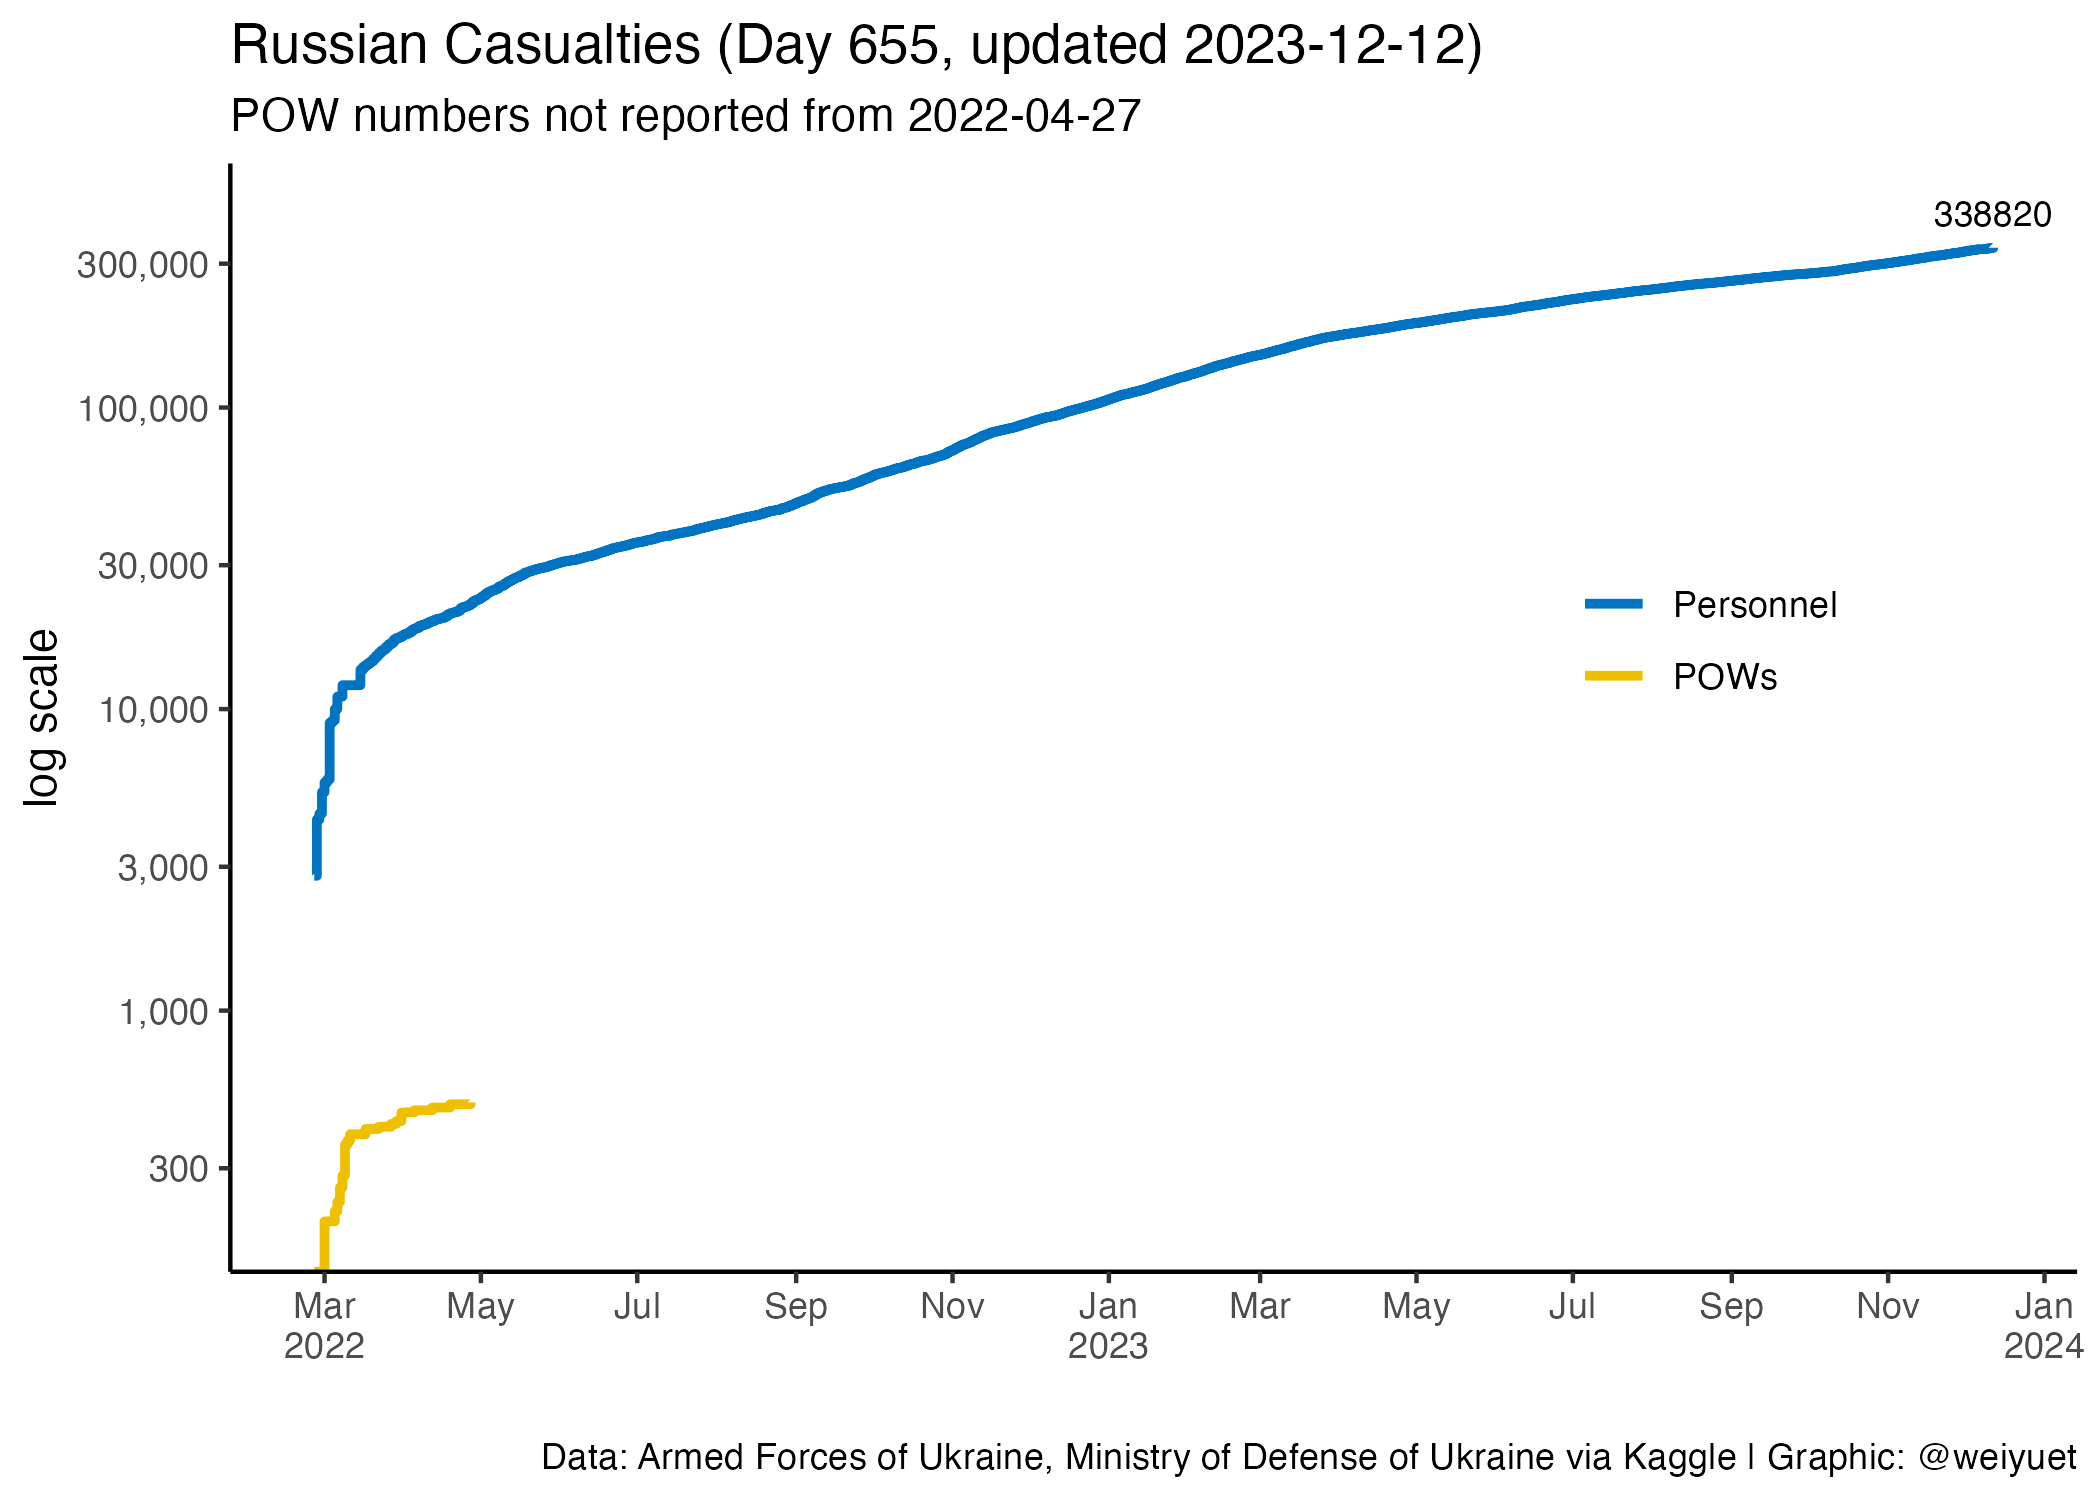
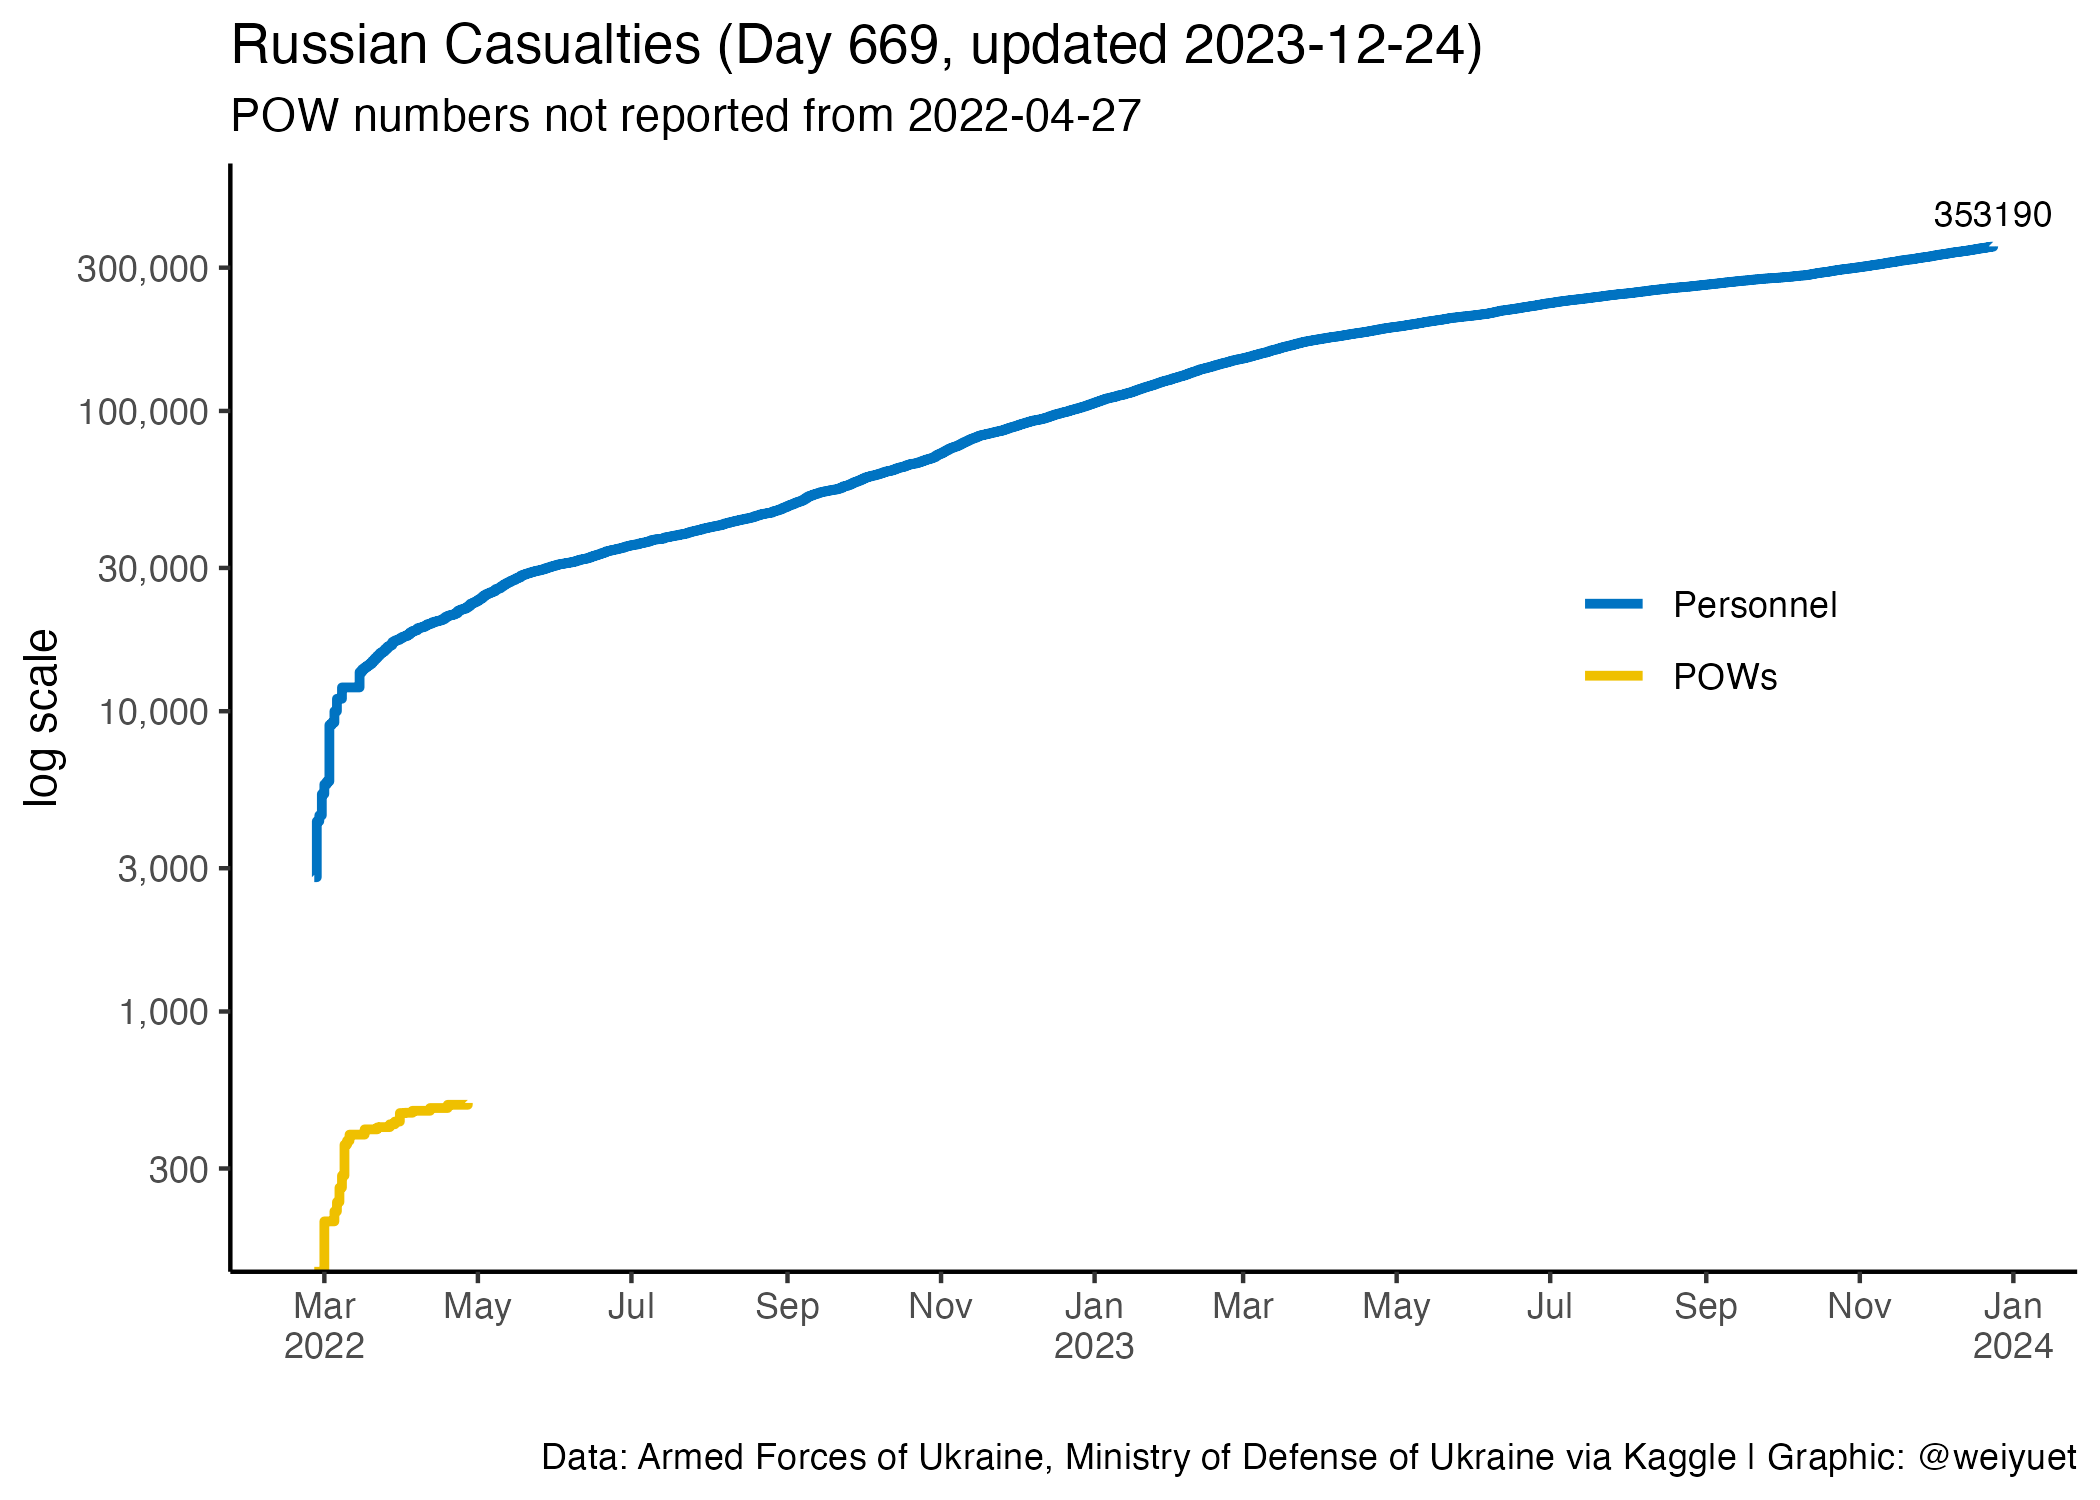
Updated 25 December

diff --git a/README.md b/README.md
@@ -6,7 +6,7 @@ Wong Wei Yuet 2022-05-26
 
   - War casualty data updated daily from [`Petro Ivanyuk's Kaggle`](https://www.kaggle.com/datasets/piterfm/2022-ukraine-russian-war). All data is official and put together by `Petro`
 
-Updated: 2023-12-11
+Updated: 2023-12-25
 
 ## Summary of Conflict
 
